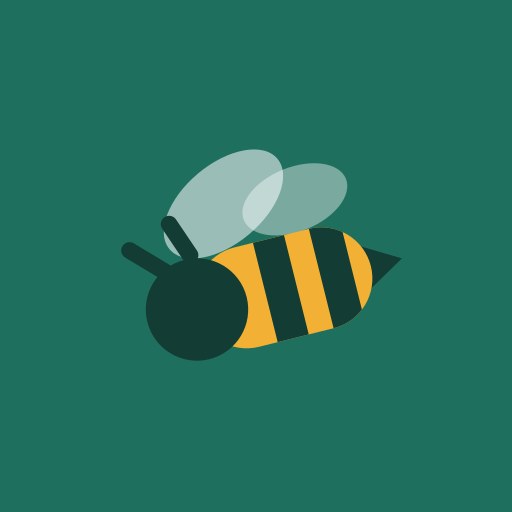
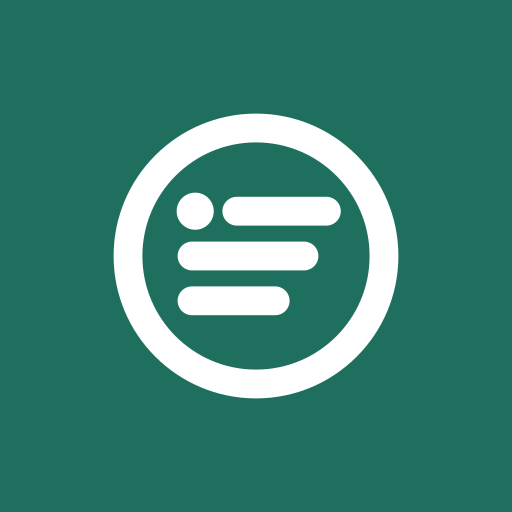
feat: replace the bee with the log-entry mark
A ring around three bars, the top one led by a dot: the newest entry in the log. Redrawn by
hand on the 64-unit grid from a raster sketch rather than traced. The in-app logo is sliced out
of icon.svg and takes the theme's accent; the desktop sidebar shows it beside the wordmark.
Adds a 180px apple-touch icon and recompresses the PNGs.

Claude-Session: https://claude.ai/code/session_01DNUZLftSTtND7ABvN6eoGv

Changed region(s): [[0.2188, 0.2188, 0.7812, 0.7812]]

diff --git a/frontend/tests/pwa-icons.test.ts b/frontend/tests/pwa-icons.test.ts
@@ -17,7 +17,7 @@ describe('pwa icons', () => {
 
   it('PNGs match the current icon.svg', () => {
     // The failure this catches: somebody edits icon.svg, forgets to re-run the render script,
-    // and ships a bee on the browser tab with the old artwork on the phone home screen. The
+    // and ships the new mark on the browser tab with the old artwork on the phone home screen. The
     // PNGs still exist and the manifest still declares them, so nothing else notices.
     const svg = readFileSync(new URL('icon.svg', publicDir));
     const actual = createHash('sha256').update(svg).digest('hex');
@@ -37,9 +37,22 @@ describe('pwa icons', () => {
     expect(maskable[0].src).toBe('pwa-512-maskable.png');
   });
 
-  it('keeps the markers the render script slices on', () => {
+  it('keeps the markers the render script and Logo.svelte slice on', () => {
     const svg = readFileSync(new URL('icon.svg', publicDir), 'utf8');
-    expect(svg).toContain('<!--bee-->');
-    expect(svg).toContain('<!--/bee-->');
+    const start = svg.indexOf('<!--mark-->');
+    const end = svg.indexOf('<!--/mark-->');
+    expect(start).toBeGreaterThan(-1);
+    expect(end).toBeGreaterThan(start);
+    // Logo.svelte recolours the mark by swapping this exact ink for currentColor. Drawn in any
+    // other spelling of white, the in-app logo would stay white and vanish on the light theme.
+    const mark = svg.slice(start, end);
+    expect(mark).toContain('#ffffff');
+    expect(mark.replaceAll('#ffffff', '')).not.toMatch(/#[0-9a-f]{3,8}\b|\bwhite\b/i);
+  });
+
+  it('gives iOS its 180px icon', () => {
+    const html = readFileSync(new URL('../index.html', import.meta.url), 'utf8');
+    expect(html).toContain('href="/apple-touch-icon.png"');
+    expect(existsSync(new URL('apple-touch-icon.png', publicDir))).toBe(true);
   });
 });

diff --git a/frontend/src/lib/Logo.svelte b/frontend/src/lib/Logo.svelte
@@ -1,15 +1,41 @@
 <script lang="ts">
+  import icon from '../../public/icon.svg?raw';
+
+  let { size = 64, decorative = false, inline = false }: {
+    size?: number; decorative?: boolean; inline?: boolean;
+  } = $props();
+
+  // The mark is sliced out of the same file the favicon and the PWA manifest use, so there is
+  // one drawing to change. Its white ink becomes currentColor, so in the app it takes the theme's
+  // accent instead of sitting on a teal plate. tests/pwa-icons.test.ts guards the markers.
+  const mark = icon
+    .slice(icon.indexOf('<!--mark-->'), icon.indexOf('<!--/mark-->'))
+    .replaceAll('#ffffff', 'currentColor');
 </script>
 
-<!-- The same file the favicon and the PWA manifest use, so there is one drawing to change.
-     `alt` rather than a decorative empty string: on Login this is the only thing naming the
-     application, since its heading is just "Sign in" (Setup's heading already says "Welcome
-     to LogB", but this component doesn't know which screen it's on). -->
-<img class="logo" src="/icon.svg" alt="LogB" width="64" height="64" />
+<!-- Labelled rather than decorative by default: on Login this is the only thing naming the
+     application, since its heading is just "Sign in". Next to the sidebar wordmark it would
+     only say "LogB" twice, so that caller passes `decorative`. -->
+<svg
+  class="logo"
+  class:inline
+  viewBox="8 8 48 48"
+  width={size}
+  height={size}
+  role={decorative ? undefined : 'img'}
+  aria-label={decorative ? undefined : 'LogB'}
+  aria-hidden={decorative ? 'true' : undefined}
+>{@html mark}</svg>
 
 <style>
   .logo {
     display: block;
     margin: 0 auto var(--space-3);
+    color: var(--accent);
+    flex: none;
+  }
+  .logo.inline {
+    display: inline-block;
+    margin: 0;
   }
 </style>

diff --git a/frontend/tests-e2e/01-smoke.spec.ts b/frontend/tests-e2e/01-smoke.spec.ts
@@ -4,11 +4,12 @@ import { signIn } from './helpers';
 test('first run leads to setup, then the dashboard', async ({ page }) => {
   await page.goto('/');
   await expect(page).toHaveTitle('LogB');
-  const logo = page.getByRole('img', { name: 'LogB' });
-  await expect(logo).toBeVisible();
-  // A broken <img> is still "visible" at its attribute size; naturalWidth is 0 only when the
-  // bytes never decoded, which is what catches /icon.svg falling out of the build.
-  await expect.poll(() => logo.evaluate((i: HTMLImageElement) => i.naturalWidth)).toBeGreaterThan(0);
+  await expect(page.getByRole('img', { name: 'LogB' })).toBeVisible();
+  // The in-app logo is inlined at build time, so it no longer proves /icon.svg is served. The
+  // favicon, the manifest and the export archive all still need that file.
+  const icon = await page.request.get('/icon.svg');
+  expect(icon.ok()).toBe(true);
+  expect(await icon.text()).toContain('<!--mark-->');
   await expect(page.getByRole('heading', { name: /Welcome to LogB/ })).toBeVisible();
   await signIn(page);
   await expect(page.getByRole('heading', { name: /My objects/ })).toBeVisible();

diff --git a/frontend/src/lib/AppNav.svelte b/frontend/src/lib/AppNav.svelte
@@ -3,6 +3,7 @@
   import { t } from '../i18n';
   import Icon from './Icon.svelte';
   import AppFooter from './AppFooter.svelte';
+  import Logo from './Logo.svelte';
   import { DESTINATIONS, activeDestination } from './nav';
 
   const active = $derived(activeDestination($path));
@@ -12,7 +13,9 @@
      here by a matchMedia read: a breakpoint measured in JavaScript is wrong on first paint and
      wrong again on every resize, and this element is on screen for all of both. -->
 <nav class="appnav" aria-label={$t('nav.primary')}>
-  <span class="wordmark">LogB</span>
+  <!-- Desktop only: app.css hides .wordmark below 900px, where the phone's top bar is already
+       full with the back button, title and outbox chips. -->
+  <span class="wordmark"><Logo size={28} decorative inline />LogB</span>
   <ul>
     {#each DESTINATIONS as d (d.id)}
       <li>

diff --git a/frontend/src/app.css b/frontend/src/app.css
@@ -250,7 +250,7 @@ button, a, .chip {
   background: none; color: var(--muted);
 }
 .appnav .dest.active { color: var(--accent); font-weight: 600; }
-.wordmark { font-weight: 700; font-size: var(--text-lg); letter-spacing: -0.01em; }
+.wordmark { display: flex; align-items: center; gap: var(--space-2); font-weight: 700; font-size: var(--text-lg); letter-spacing: -0.01em; }
 
 /* Mobile: a bottom tab bar. The top of a phone screen is the one place a thumb cannot reach,
    which is exactly where every navigation control in this app used to live.

diff --git a/frontend/index.html b/frontend/index.html
@@ -7,7 +7,7 @@
     <meta name="theme-color" content="#1f6f5f" />
     <meta name="description" content="Complete history of your owned objects." />
     <link rel="icon" href="/icon.svg" type="image/svg+xml" />
-    <link rel="apple-touch-icon" href="/pwa-192.png" />
+    <link rel="apple-touch-icon" href="/apple-touch-icon.png" sizes="180x180" />
   </head>
   <body>
     <div id="app"></div>

diff --git a/docs/superpowers/specs/2026-09-13-logb-mark-design.md b/docs/superpowers/specs/2026-09-13-logb-mark-design.md
@@ -1,0 +1,45 @@
+# The LogB mark
+
+Status: implemented. Replaces the bee ([2026-09-11-bee-logo-design.md](2026-09-11-bee-logo-design.md)).
+
+## Why
+
+The bee was a pun on the B in LogB and said nothing about what the app is. The replacement
+started as a supplied raster sketch: a ring around three left-aligned bars getting shorter. That
+sketch was a 1.1 MB RGB PNG with a checkerboard painted into its pixels, a ring of uneven weight,
+and it read as a generic filter/sort control — a problem for a logo that sits next to real
+controls.
+
+## The artwork
+
+Redrawn by hand on the 64-unit grid, not traced:
+
+- ring: `r=20`, stroke `4.5`
+- three bars, round caps, stroke `4.5`, at `y = 25 / 32 / 39`, starting at `x = 22`,
+  lengths roughly 1 : 0.85 : 0.62
+- the top bar starts with a dot (`r=2.9`): the newest entry in the log. That one detail is what
+  moves it from "filter icon" to "log entry", and it survives at 16px, where a timeline variant
+  with a spine and three nodes did not.
+
+Colours: the existing accent `#1f6f5f` as the plate, white ink. No second colour.
+
+Four candidates (clean redraw, entry dot, timeline, amber dot) were compared at 16–128px, on light
+and dark tabs, masked, and in-app; the entry dot was chosen.
+
+## One drawing
+
+`frontend/public/icon.svg` holds the only copy, with the ink between `<!--mark-->` markers.
+
+| Consumer | How it gets the mark |
+|---|---|
+| favicon | `icon.svg` directly |
+| PWA 192/512, apple-touch 180 | `scripts/render-icons.sh` |
+| PWA maskable 512 | render script slices the markers onto a full-bleed plate at 80% |
+| Login, Setup, desktop sidebar | `Logo.svelte` imports `icon.svg?raw`, slices the markers, swaps `#ffffff` for `currentColor`, so the in-app mark follows `--accent` in both themes with no plate |
+| export archive | `icon.svg` embedded via `rust-embed`, unchanged |
+| README | `icon.svg` |
+
+## Where it appears in the app
+
+Login and Setup, as before. New: the desktop sidebar, beside the wordmark. Not the phone top bar,
+which is already full — the wordmark and its logo are hidden below 900px.

diff --git a/README.md b/README.md
@@ -1,4 +1,4 @@
-# LogB
+# <img src="frontend/public/icon.svg" width="40" height="40" alt="" align="top"> LogB
 
 Complete history of your owned objects — cars, e-bikes, homes, tools.
 Log what you did (date, mileage, cost, notes, photos, documents), see the

diff --git a/docs/superpowers/specs/2026-09-11-bee-logo-design.md b/docs/superpowers/specs/2026-09-11-bee-logo-design.md
@@ -1,6 +1,6 @@
 # A bee for logb
 
-Status: approved design, not yet implemented.
+Status: superseded by [2026-09-13-logb-mark-design.md](2026-09-13-logb-mark-design.md). The bee is retired.
 
 ## Problem
 
